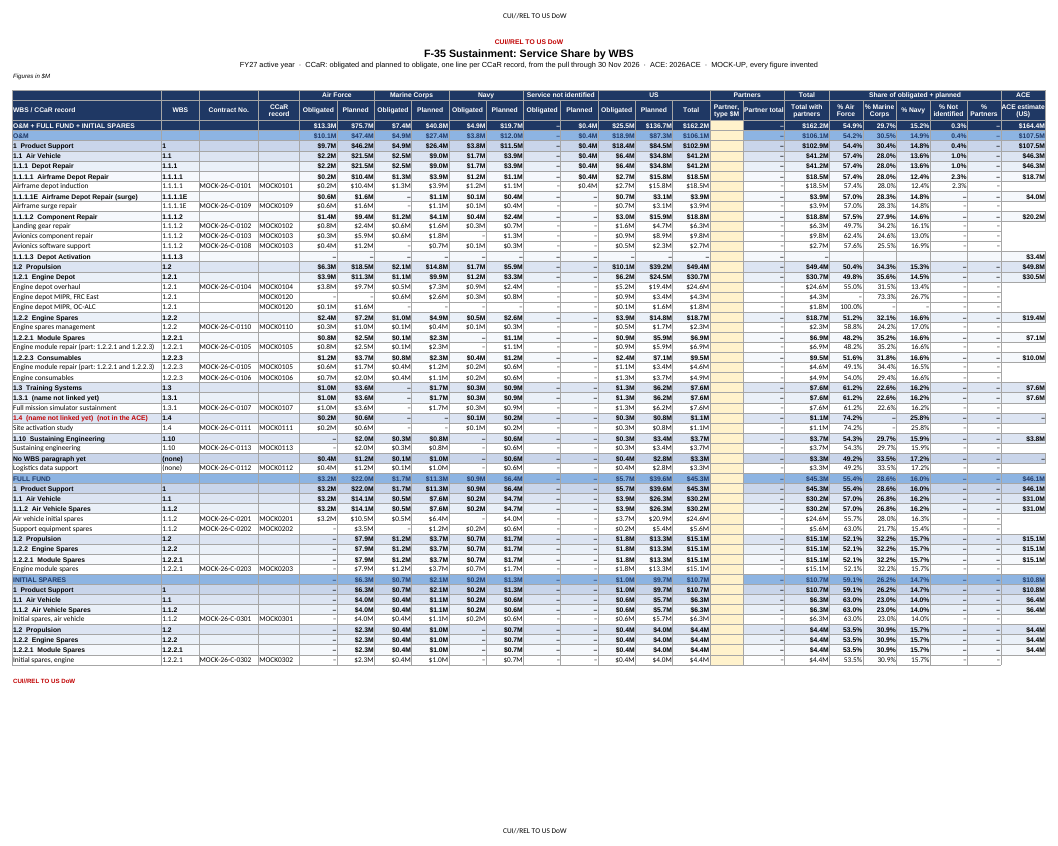
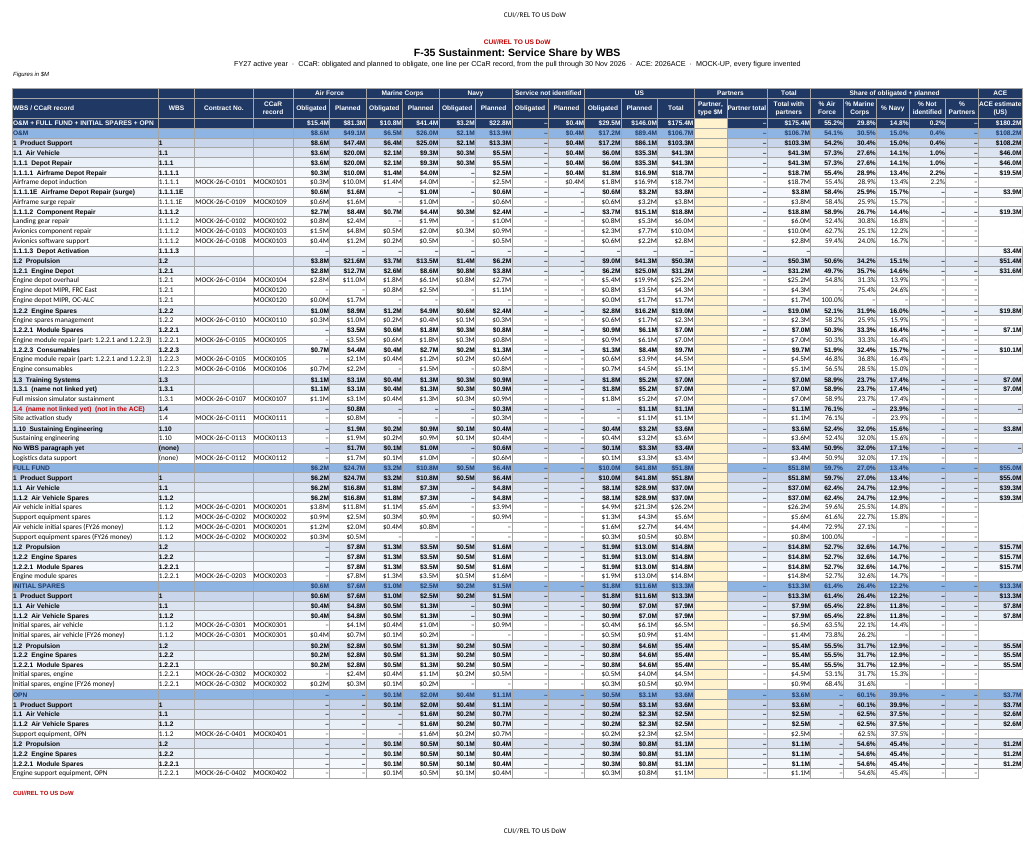
Items 133 and 134: Brad's answers of 28 Oct -- the allocation splits by paragraph, OPN in, earlier money shown, UPL last
- Item 133: what an office types per WBS paragraph is the allocation; OPN is in ("we still need to be in balance");
  earlier years' procurement money obligating this year goes on the active-year tab, marked with its year ("let's
  revisit if it doesn't view as planned").
- Item 134: added funding sources not fully allocated to a requirement show as UPL, the last line item.
- Mock-up: OPN and FY26 money obligating in FY27 added; the Data tab keeps each row's own FY beside the tab it is shown
  on. check.py: 259 rows; eleven planted mistakes each fail it.

Claude-Session: https://claude.ai/code/session_013JHjSqanzfLoGiH8kiFs1t

diff --git a/recovery/item133-mockup/xlsx.py b/recovery/item133-mockup/xlsx.py
@@ -35,7 +35,7 @@ def head(ws):                        # the marking on every printed page, beside
   ws.oddHeader.center.text = MARK; ws.oddFooter.center.text = MARK
 
 # ---------------------------------------------------------------- the Data tab: every figure once, one measure per column
-DCOLS = ['FY', 'Year', 'Record', 'Appropriation', 'WBS paragraph', 'WBS name', 'In the ACE'] + ['WBS L%d' % i for i in range(1, NL + 1)] + \
+DCOLS = ['FY', 'Year', 'Shown on', 'Record', 'Appropriation', 'WBS paragraph', 'WBS name', 'In the ACE'] + ['WBS L%d' % i for i in range(1, NL + 1)] + \
   ['Requirement / CCaR record', 'Split across', 'CCaR record', 'Contract No.', 'Req id', 'Service', 'Service line', 'Board name',
    'Month', 'Requirement ($)', 'Funded ($)', 'CCaR plan ($)', 'Obligated ($)', 'Planned to obligate ($)', 'ACE estimate, US ($)',
    'Line key', 'PK'] + \
@@ -43,13 +43,13 @@ DCOLS = ['FY', 'Year', 'Record', 'Appropriation', 'WBS paragraph', 'WBS name', '
 D = {n: CL(i + 1) for i, n in enumerate(DCOLS)}
 def DR(n): return 'Data!$%s:$%s' % (D[n], D[n])
 
-def akey(e): return e['ccar'] + '|' + e['title'] + '|' + e['contract']   # a CCaR row carries no ORBIT id (yet)
+def akey(e): return e['ccar'] + '|' + e['title'] + '|' + e['contract'] + '|' + fyl(e.get('fy', ACTIVE))   # no ORBIT id (yet)
 
 def data_rows():
   out = []
   def base(fy, yr, rec, ap, w, est):
     ch = chain(w) if w != NONE else [NONE]
-    r = {'FY': fyl(fy), 'Year': yr, 'Record': rec, 'Appropriation': ap, 'WBS paragraph': w,
+    r = {'FY': fyl(fy), 'Year': yr, 'Shown on': fyl(fy), 'Record': rec, 'Appropriation': ap, 'WBS paragraph': w,
          'WBS name': WBS.get(w, '') if w != NONE else '', 'In the ACE': 'Yes' if in_ace(w, est) else 'No', 'PK': key(w)}
     for i in range(NL):
       r['WBS L%d' % (i + 1)] = wbs_label(ch[i]) if i < len(ch) else None
@@ -58,6 +58,7 @@ def data_rows():
   for ap in APPNS:
     for e in EVENTS[ap]:
       r = base(ACTIVE, 'Active', 'CCaR plan event', ap, e['wbs'], ACE_ACTIVE[ap])
+      if e.get('fy', ACTIVE) != ACTIVE: r['FY'], r['Year'] = fyl(e['fy']), 'Active, %s money' % fyl(e['fy'])
       r.update({'Requirement / CCaR record': e['title'], 'Split across': ', '.join(e['split']) if e['split'] else None,
                 'CCaR record': e['ccar'], 'Contract No.': e['contract'], 'Service': group_of(e['line']),
                 'Service line': LINE_NAME[canon(e['line'])], 'Board name': e['line'], 'Month': month_date(e['month']),
@@ -184,7 +185,7 @@ def tree_sheet(wb, name, fy, kind, title, sub, cols, groups, widths, first=8):
     for k, v in kv.items(): ws['%s%d' % (K[k], r)] = v
     lv = len(ch)
     # the SUMIFS criteria this row stands for
-    crit = [(D['FY'], '$%s%d' % (K['kFY'], r))]
+    crit = [(D['Shown on'], '$%s%d' % (K['kFY'], r))]
     if typ != 'all': crit.append((D['Appropriation'], '$%s%d' % (K['kAP'], r)))
     if typ == 'head': crit.append((D['K%d' % lv], '$%s%d' % (K['kL%d' % lv], r)))
     if typ == 'line': crit += [(D['PK'], '$%s%d' % (K['kPARA'], r)), (D['Line key'], '$%s%d' % (K['kLINE'], r))]
@@ -198,7 +199,8 @@ def tree_sheet(wb, name, fy, kind, title, sub, cols, groups, widths, first=8):
                    'head': (wbs_label(code) + ('  (not in the ACE)' if code != NONE and not d.get('inace', True) else ''))
                    if code else ''}.get(typ)
         if typ == 'line':
-          x = d['x']; c.value = x['title'] + ((' (part: ' + ' and '.join(x['split']) + ')') if x.get('split') else '')
+          x = d['x']; c.value = x['title'] + ((' (part: ' + ' and '.join(x['split']) + ')') if x.get('split') else '') \
+            + ((' (%s money)' % fyl(x['fy'])) if x.get('fy', fy) != fy else '')
         c.alignment = Alignment(indent=(lv if typ == 'line' else max(lv - 1, 0)))
       elif spec[0] == 'wbs': c.value = (code if typ == 'head' else d['para'] if typ == 'line' else None)
       elif spec[0] == 'con' and typ == 'line': c.value = d['x']['contract']
@@ -235,7 +237,7 @@ def tree_sheet(wb, name, fy, kind, title, sub, cols, groups, widths, first=8):
         ws.cell(r, 1, lbl).alignment = Alignment(indent=1)
         for j, (h, spec) in enumerate(cols, start=1):
           if spec[0] == 'm':
-            ws.cell(r, j, '=SUMIFS(%s,Data!$%s:$%s,%s,Data!$%s:$%s,%s)' % (DR(meas), D['FY'], D['FY'], '"%s"' % fyl(fy), D['Month'], D['Month'], mcrit(spec[3], CL(j))))
+            ws.cell(r, j, '=SUMIFS(%s,Data!$%s:$%s,%s,Data!$%s:$%s,%s)' % (DR(meas), D['Shown on'], D['Shown on'], '"%s"' % fyl(fy), D['Month'], D['Month'], mcrit(spec[3], CL(j))))
           elif spec[0] == 'f': ws.cell(r, j, spec[1](r, L))
           ws.cell(r, j).border = BOX; ws.cell(r, j).font = F(italic=True)
         r += 1
@@ -357,11 +359,13 @@ def read_sheet(wb):
      'sits under "No WBS paragraph yet" in its appropriation, and is in every total above it.', ''),
     ('ACE estimate (US): the %s cost estimate, US services only, for the paragraph and everything beneath it, including lines '
      'no requirement claims (1.1.1.3 here). A requirement line has none of its own.' % ACE_SET, ''),
-    ('The top line names the appropriations it covers: OPN is not in this mock-up until it is decided.', ''),
+    ('The top line names the appropriations it covers: O&M, Full Fund, Initial Spares and OPN.', ''),
+    ('Earlier years\' procurement money obligating this year is on the active-year tab, marked with its own year ("FY26 '
+     'money"), and in every total there; the Data tab keeps its own FY beside "Shown on". The ACE estimate beside the active '
+     'year is that year\'s estimate, which earlier years\' money is outside.', ''),
     ('', ''), ('Still to decide', 'h'),
     ('The WBS names\' tab and column in the ACE. The CCaR columns for the contract number and the WBS paragraph on each plan '
-     'event. ORBIT\'s requirement id coming back from CCaR. OPN. Whether earlier years\' procurement money obligating this '
-     'year belongs on the active-year tab. The dissemination marking, to confirm with security.', ''),
+     'event. ORBIT\'s requirement id coming back from CCaR.', ''),
     ('', ''), (MARK, 'mark'),
   ]
   for i, (t, k) in enumerate(lines, start=1):

diff --git a/recovery/item133-mockup/model.py b/recovery/item133-mockup/model.py
@@ -14,11 +14,12 @@ MONTHS = [datetime.date(2026 + (m > 2), (m + 9) % 12 + 1, 1) for m in range(12)]
 MARK = 'CUI//REL TO US DoW'                  # the marking FYDP Disconnects carries (FDC_MARK)
 NONE = '(none)'                              # the paragraph of a line with no WBS paragraph yet
 
-APPNS = ['O&M', 'Full Fund', 'Initial Spares']
+APPNS = ['O&M', 'Full Fund', 'Initial Spares', 'OPN']             # OPN in (Brad, 28 Oct: "we still need to be in balance")
 SVC_ALIAS = {'USMC-B': 'STOVL'}              # the board's own alias (SVC_ALIAS); Full Fund calls STOVL "USMC-B"
 BOARD_LINES = {'O&M': ['USAF', 'ANG', 'AFRC', 'STOVL', 'USMC-C', 'USN'],
                'Full Fund': ['USAF', 'ANG', 'AFRC', 'USMC-B', 'USMC-C', 'USN'],
-               'Initial Spares': ['USAF', 'ANG', 'AFRC', 'STOVL', 'USMC-C', 'USN']}
+               'Initial Spares': ['USAF', 'ANG', 'AFRC', 'STOVL', 'USMC-C', 'USN'],
+               'OPN': ['STOVL', 'USMC-C', 'USN']}
 GROUPS = [('Air Force', ['USAF', 'ANG', 'AFRC']), ('Marine Corps', ['STOVL', 'USMC-C']), ('Navy', ['USN'])]
 LINE_NAME = {'USAF': 'USAF', 'ANG': 'ANG', 'AFRC': 'AFRC', 'STOVL': 'USMC STOVL', 'USMC-C': 'USMC CV', 'USN': 'USN CV',
              'Other': 'Not identified'}
@@ -74,6 +75,10 @@ REQS = {
     ('Initial spares, air vehicle', 'MOCK0301', 'MOCK-26-C-0301', [('1.1.2', 1)],  {'USAF': 4, 'STOVL': 1.5, 'USN': 1}),
     ('Initial spares, engine',     'MOCK0302', 'MOCK-26-C-0302', [('1.2.2.1', 1)], {'USAF': 2.5, 'STOVL': 1, 'USMC-C': .4, 'USN': .7}),
   ],
+  'OPN': [
+    ('Support equipment, OPN',     'MOCK0401', 'MOCK-26-C-0401', [('1.1.2', 1)],   {'STOVL': 1.2, 'USMC-C': .4, 'USN': .9}),
+    ('Engine support equipment, OPN', 'MOCK0402', 'MOCK-26-C-0402', [('1.2.2.1', 1)], {'STOVL': .6, 'USN': .5}),
+  ],
 }
 ACE_ONLY = {('O&M', '1.1.1.3'): {'USAF': 2.0, 'STOVL': .8, 'USN': .5}}   # an estimate line no requirement claims ($M)
 
@@ -121,13 +126,23 @@ for ap in APPNS:
         for q in range(4):                                   # four plan events a year per service line
           mo = q * 3 + rng.randint(0, 2)
           ev.append({'title': t, 'ccar': ccar, 'contract': con, 'wbs': w or NONE,
-                     'split': [x or NONE for x, _ in split] if len(split) > 1 else None, 'line': s, 'month': mo,
+                     'split': [x or NONE for x, _ in split] if len(split) > 1 else None, 'line': s, 'month': mo, 'fy': ACTIVE,
                      'amount': whole(tot / 4 * rng.uniform(.85, 1.15)), 'ob': month_date(mo) <= THROUGH})
   EVENTS[ap] = ev
 EVENTS['O&M'][0]['month'], EVENTS['O&M'][0]['ob'] = 0, False      # slipped: dated October, not yet obligated
 late = [e for e in EVENTS['O&M'] if e['month'] == 8][0]; late['ob'] = True    # obligated early: dated June, obligated
 EVENTS['Full Fund'].append(dict(EVENTS['Full Fund'][0], month=16, ob=False, amount=1250000))   # procurement dated Feb 28
 EVENTS['O&M'].append(dict(EVENTS['O&M'][1], line='Other', amount=420000))     # a budget name that names no Service
+# Earlier years' procurement money obligating in the active year (Brad, 28 Oct: "Yes, but let's revisit if it doesn't view as
+# planned"): FY26 Full Fund and Initial Spares plan events dated inside FY27. They are filed under FY26 in CCaR and shown on
+# the active-year tab, marked as FY26 money.
+r26 = random.Random(26)
+for ap in ('Full Fund', 'Initial Spares'):
+  for (t, ccar, con, split, base) in REQS[ap][:2]:
+    for s, m in list(base.items())[:2]:
+      for mo in (1, 3, 5):
+        EVENTS[ap].append({'title': t, 'ccar': ccar, 'contract': con, 'wbs': split[0][0], 'split': None, 'line': s, 'month': mo,
+                           'fy': ACTIVE - 1, 'amount': whole(m * 1e6 * .08 * r26.uniform(.8, 1.2)), 'ob': month_date(mo) <= THROUGH})
 for ap in APPNS:
   est = {}
   for e in EVENTS[ap]:

diff --git a/recovery/item133-mockup/check.py b/recovery/item133-mockup/check.py
@@ -73,7 +73,7 @@ def expect_active(k, month=None):
   for ap in APPNS:
     for x in EVENTS[ap]:
       if month is not None and not (x['month'] == month or (month == -1 and x['month'] < 0) or (month == 12 and x['month'] > 11)): continue
-      if matches(k, ap, x['wbs'], x['ccar'] + '|' + x['title'] + '|' + x['contract']):
+      if matches(k, ap, x['wbs'], x['ccar'] + '|' + x['title'] + '|' + x['contract'] + '|' + fyl(x.get('fy', ACTIVE))):
         g = [g for g, n in GRP.items() if x['line'] in n][0]
         e[g + (' ob' if x['ob'] else ' pl')] += x['amount']; e['tot'] += x['amount']; e['ob' if x['ob'] else 'pl'] += x['amount']
     if k['kTYPE'] != 'line' and month is None:
@@ -213,7 +213,7 @@ dws = wb['Data']; H = {dws.cell(2, j).value: j for j in range(1, dws.max_column 
 chk(dws['A1'].value == MARK, 'the Data tab carries the marking above its table')
 fund_by_fy = {}
 for r in range(3, dws.max_row + 1):
-  rec, fy = dws.cell(r, H['Record']).value, dws.cell(r, H['FY']).value
+  rec, fy = dws.cell(r, H['Record']).value, dws.cell(r, H['Shown on']).value     # the tab a row is counted on
   f, cp, o, p = [v(dws, r, H[c]) for c in ('Funded ($)', 'CCaR plan ($)', 'Obligated ($)', 'Planned to obligate ($)')]
   if rec == 'CCaR plan event':
     chk(abs(cp - (o + p)) < .5 and (o == 0 or p == 0) and f == 0, 'Data row %d: CCaR plan is not Obligated + Planned' % r)
@@ -224,6 +224,12 @@ for fy in YEARS:
   chk(abs(fund_by_fy[fyl(fy)] - v(w, 8, c7x['US funded'])) < .5, 'Data Funded for %s = the tab\'s ALL US funded' % fyl(fy))
 wa = wb[fyl(ACTIVE) + ' (active)']; c6a, c7a = cols_of(wa)
 chk(abs(fund_by_fy[fyl(ACTIVE)] - v(wa, 8, c6a['US'] + 2)) < .5, 'Data Funded for the active year = obligated + planned on its tab')
+# earlier years' money obligating this year: on the active tab, marked, and in its totals (expect_active counts it)
+early = [str(wa.cell(r, 1).value) for r, k in rows_of(wa, c7a) if k['kTYPE'] == 'line' and '(%s money)' % fyl(ACTIVE - 1) in str(wa.cell(r, 1).value)]
+chk(len(early) >= 4, 'earlier years\' money on the active tab, marked: %d lines' % len(early))
+chk(sum(1 for r in range(3, dws.max_row + 1) if dws.cell(r, H['FY']).value == fyl(ACTIVE - 1) and dws.cell(r, H['Shown on']).value == fyl(ACTIVE)) > 0,
+    'the Data tab keeps earlier money\'s own FY beside the tab it is shown on')
+chk('OPN' in APPNS and any(str(ws.cell(r, 1).value) == 'OPN' for r in range(8, ws.max_row + 1)), 'OPN has its section')
 
 # ---- 3: partner figures typed in $M into a copy
 cp = os.path.join(TMP, 'partner.xlsx'); shutil.copy(SRC, cp)

diff --git a/NEXT-VERSION.md b/NEXT-VERSION.md
@@ -293,17 +293,19 @@ Each was raised by a skeptic re-checking a fix to item 130 and reproduced; none 
     for that appropriation and year, not by the names list), one in the ACE with no name linked (1.3.1), 1.10 beside 1.1,
     two requirements sharing a CCaR record with no contract number (MIPRs), one CCaR record carrying two contracts, a plan
     event that slipped and one obligated early, a procurement plan event dated past September (an *After* column on the
-    month tab), a CCaR row whose budget name names no Service (*Service not identified*, in every total), and Initial
-    Spares. The top line names the appropriations it covers. Every sheet carries the marking in its page header and
+    month tab), a CCaR row whose budget name names no Service (*Service not identified*, in every total), Initial Spares
+    and OPN, and FY26 procurement money obligating in FY27 (on the active-year tab, marked *FY26 money*; the Data tab keeps
+    its own FY beside *Shown on*). The top line names the appropriations it covers. Every sheet carries the marking in its page header and
     footer, and the Data tab above its table.
-  - **`check.py`** recalculates the saved file in LibreOffice and holds all 215 rows of the four tree tabs to figures worked
+  - **`check.py`** recalculates the saved file in LibreOffice and holds all 259 rows of the four tree tabs to figures worked
     out from `model.py` with the Service groups written out by hand (never the builder's own list), every line's shares to
     100%, the month tab's totals to the active tab's, the Data tab's measures, no formula pointing at another row, every
     key's prefix, the marking, and partner figures typed in $M on a line, a WBS header, an appropriation and the active
-    tab. Ten planted mistakes each fail it: the USMC-B alias dropped (240), the partner box not converted from $M (12), the
-    unclaimed ACE line pruned (1), the "No WBS paragraph yet" block dropped (1), requirement and funded in one Data column
-    (1,048), plan lines keyed by CCaR record and contract (321), the unidentified Service left out of the US total (29),
-    plan events after September dropped (13), the ACE flag taken from the names list (1), the key prefix dropped (5).
+    tab. Eleven planted mistakes each fail it: the USMC-B alias dropped (246), the partner box not converted from $M (12),
+    the unclaimed ACE line pruned (1), the "No WBS paragraph yet" block dropped (1), requirement and funded in one Data
+    column (1,183), plan lines keyed by CCaR record and contract (345), the unidentified Service left out of the US total
+    (29), plan events after September dropped (13), the ACE flag taken from the names list (1), the key prefix dropped (5),
+    earlier years' money dropped from the active tab (194).
   - **Rebuilt after an independent review (28 Oct):** three reviewers (Brad's decisions, the Excel under real use, what
     ORBIT can deliver), each finding reproduced in LibreOffice. The first cut summed requirement and funded in one Data
     column (a pivot doubled the plan years), took the partner box in dollars under a $M label (2.5 did nothing), lost a row
@@ -344,14 +346,17 @@ Each was raised by a skeptic re-checking a fix to item 130 and reproduced; none 
     door and read parentheses as negative. The *pull through* date comes from `repYmOf`, not `asOf` or today.
   - **A requirement line's label repeats on real data** (108 of 155 O&M requirements share a record name; OPN shares one plan
     event): print the plan event, the record name and the PID beside each other, as Decision Bands does.
-- **Questions for Brad (raised by the review):**
-  1. A requirement on two paragraphs: is what the office types per paragraph the **requirement value** or the
-     **allocation**? ORBIT's WBS lines split the allocation today (`wbsResolve`). The mock-up splits the requirement and
-     spreads funded in the same proportion.
-  2. **OPN**: in or out? (The mock-up carries O&M, Full Fund and Initial Spares, as FYDP Disconnects does.)
-  3. **Procurement money from earlier years obligating this year** (Full Fund and Initial Spares obligate across about
-     three years): on the active-year tab, or only money filed under the active year?
 - **Answered (Brad, 28 Oct 2026):**
+  1. **A requirement on two paragraphs:** what the office types per paragraph is **the allocation** -- as ORBIT's WBS lines
+     already split it (`wbsResolve`). So per paragraph: the allocation as typed; funded spread over the paragraphs by
+     allocation (as `aceAlignRows` spreads it); the requirement value apportioned by the same weights (`apportion`); and any
+     allocation the typed lines do not cover on a line of its own, "not assigned to a paragraph". (The mock-up, splitting
+     requirement and funded by one fraction, shows the same result where the allocation follows that fraction.)
+  2. **OPN is in:** *"It's a smaller appropriation but we still need to be in balance."*
+  3. **Earlier years' procurement money obligating this year goes on the active-year tab:** *"Yes, but let's revisit if it
+     doesn't view as planned."* CCaR files those rows under their own FY; the tab shows the ones dated inside the active
+     year, marked with their year, in every total. The ACE beside the active year is that year's estimate, which earlier
+     years' money is outside, and the tab says so.
   4. **What CCaR's Alloc column says for a plan event not yet obligated:** *"Not allocated. Everything in ORBIT is planned
      for the future. CCaR is for active year obligations when we have the authority to obligate."* So obligated is read from
      CCaR's own allocation status, as `isAlloc` reads it, and ORBIT's figures are never obligations.
@@ -387,6 +392,10 @@ Each was raised by a skeptic re-checking a fix to item 130 and reproduced; none 
      shortages, as applicable."*
   3. **No automatic cut:** *"It should flag the overage and let the user know that a reduction to a requirement somewhere
      needs to take place."*
+  4. **Added funding sources** (Brad, 28 Oct): *"Should be shown as UPL, if the funds are not fully allocated to a
+     requirement. It should be shown as a last line item."* Added funding sources count beside the position; whatever of
+     them no requirement has been allocated is shown as **UPL**, the last line of that year's list, by service and lane --
+     on the board and in every report that lists requirements, the Service share workbook (item 133) included.
 - **Proposed:**
   - **Every year's budget authority is read from the position, not copied.** While the plan is tagged (BES28, say), each
     year's discretionary and mandatory budget authority, by service, is that year's total in this appropriation's BES28
@@ -402,8 +411,6 @@ Each was raised by a skeptic re-checking a fix to item 130 and reproduced; none 
   - **What prints in the meantime:** funded is what the lane draws within the position, as everywhere else, so no report
     states more than the position; the overage stands as a flag until a requirement is reduced.
   - **Locked cycles** keep the position as it was locked; only the working plan reads live.
-- **Still to decide:** added funding sources (`S.bm.adds`, a UPL say) -- on top of the position, shown as such, or not
-  counted while the plan is tagged?
 
 ## Later
 
